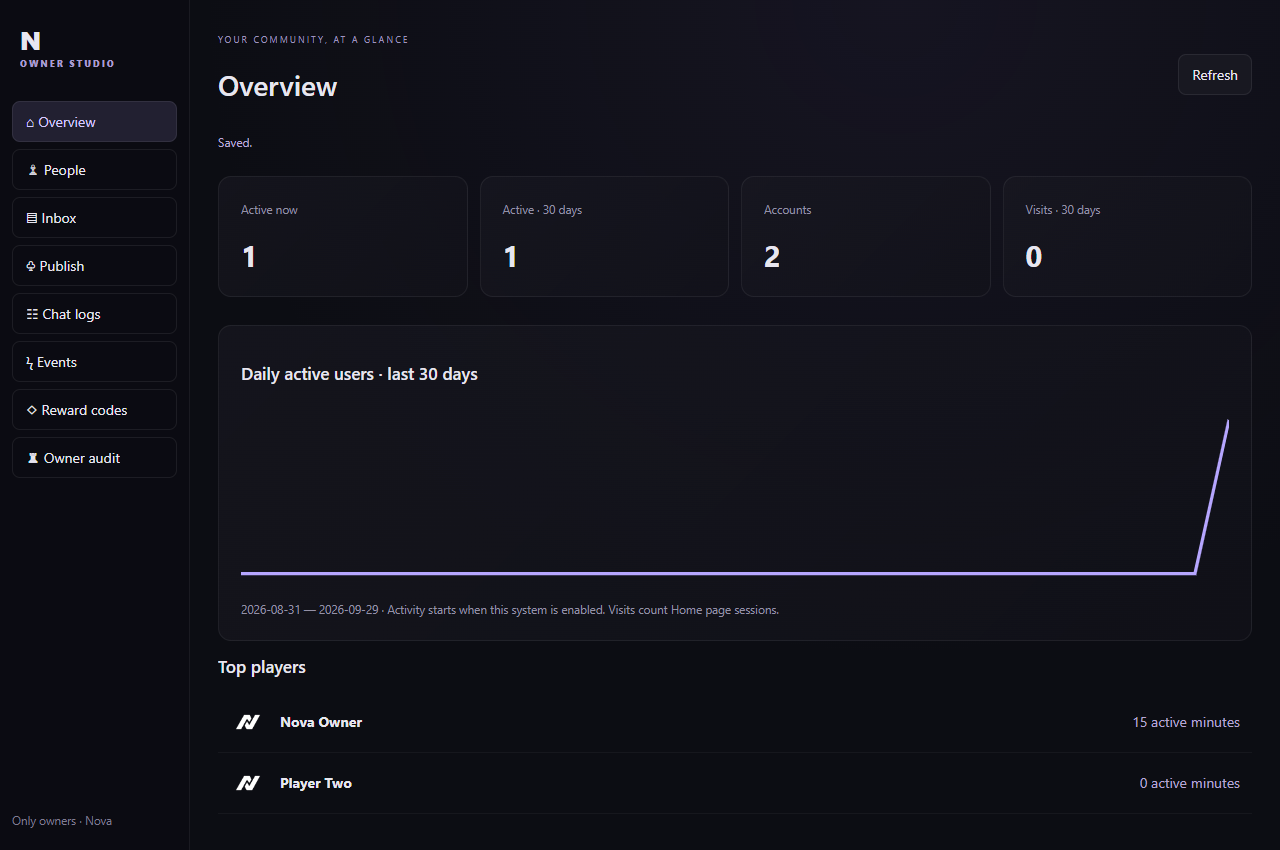
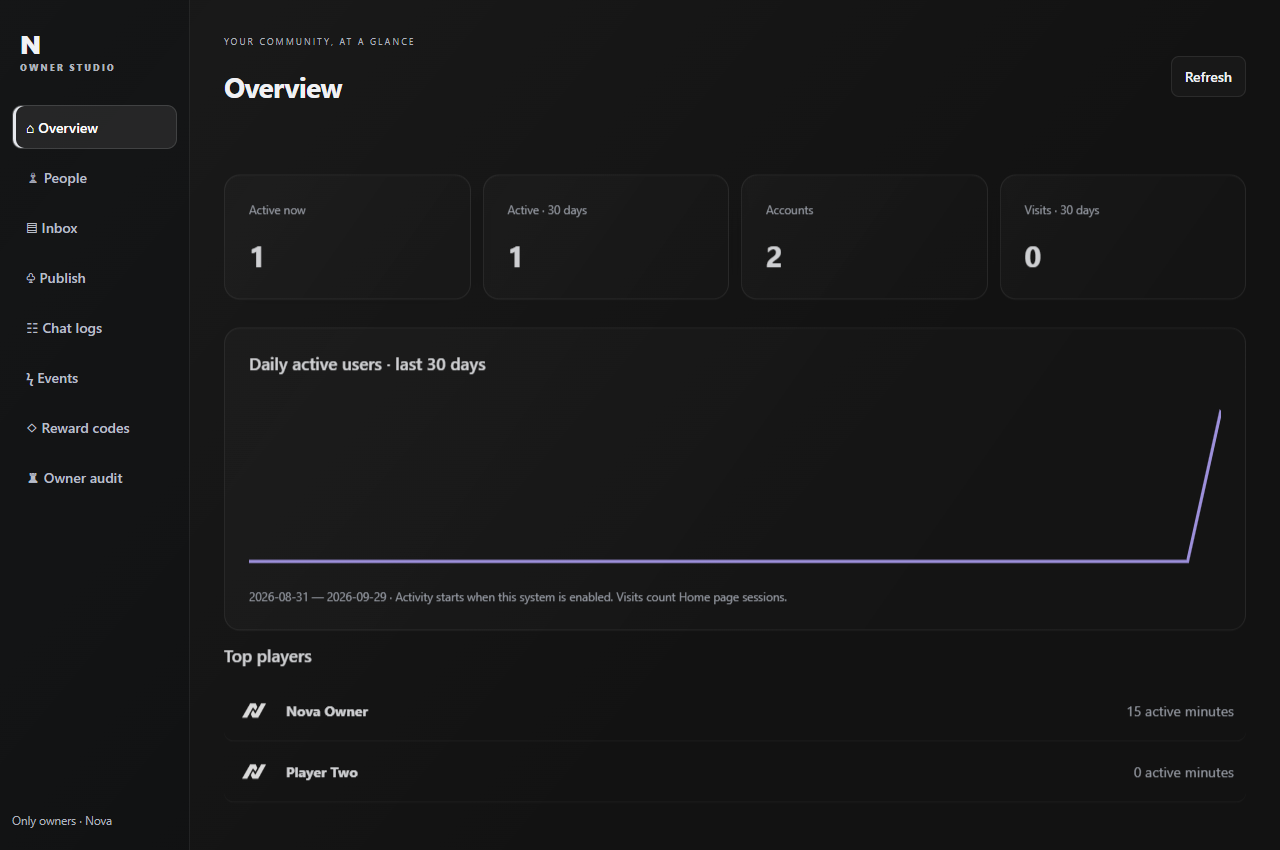
updated owner ui

diff --git a/Public/content/games/694.html b/Public/content/games/694.html
@@ -5,12 +5,15 @@
   gtag('js', new Date());
 
   gtag('config', 'G-L7856P3VNT');
-</script><head>
-	<script src="//www.google.com/jsapi"></script>
-	<script>
-		window.parent.maeExportApis_();
-	</script>
+</script><html>
 
+
+<!-- Ultimate Game Stash file--> 
+<!-- For the regularly updating doc go to https://docs.google.com/document/d/1_FmH3BlSBQI7FGgAQL59-ZPe8eCxs35wel6JUyVaG8Q/ -->
+
+
+
+<head>
 	<style>
 		body {
 			overflow: hidden;
@@ -37,7 +40,44 @@
 			font-family: 'Press Start 2P', cursive;
 			box-shadow: 0px 0px 10px 2px #000000;
 		}
-	
+	#sidebarad1,
+#sidebarad2 {
+  position: fixed;
+  top: 50%;
+  transform: translateY(-50%);
+  width: 160px;
+  height: 600px;
+  padding: 0;
+  margin: 0;
+  z-index: 999999;
+}
+#sidebarad1 {
+  left: 0;
+}
+#sidebarad2 {
+  right: 0;
+}
+.sidebar-close {
+  position: absolute;
+  top: 0;
+  right: 0;
+  width: 22px;
+  height: 22px;
+  line-height: 22px;
+  text-align: center;
+  background: rgba(0,0,0,0.7);
+  color: #fff;
+  font-size: 14px;
+  cursor: pointer;
+  user-select: none;
+  z-index: 10;
+}
+.sidebar-frame {
+  width: 160px;
+  height: 600px;
+  border: none;
+  display: block;
+}
 </style>
 	<link href="https://fonts.googleapis.com/css2?family=Press+Start+2P&amp;display=swap" rel="stylesheet">
 	<style type="text/css">
@@ -84,14 +124,24 @@
                 EJS_color = "#000000";
                 EJS_startOnLoaded = true;
                 EJS_pathtodata = "https://cdn.jsdelivr.net/gh/a456pur/seraph@81f551ca0aa8e3d6018d32d8ac5904ac9bc78f76/storage/emulatorjs/data";
-                EJS_gameUrl = "https://cdn.jsdelivr.net/gh/7363272/ESPG@7aa7497bb64f4448ed3159d1fde86c7e82e6312d/games/pokemonfirered/rom.gba";
-                loadGame();
+                EJS_gameUrl = "https://cdn.jsdelivr.net/gh/bubbls/UGS-file-encryption@cf2db6e9366385521ac2ce4e87b8d364aac61a37/Pokemon%20-%20Red%20Version%20(USA%2C%20Europe)%20(SGB%20Enhanced).zip";
+                loadGame();  
             }
             document.getElementById("startButton").addEventListener("click", startGame);
             function loadGame() {
                 var script = document.createElement("script");
                 script.src = "https://cdn.jsdelivr.net/gh/a456pur/seraph@81f551ca0aa8e3d6018d32d8ac5904ac9bc78f76/storage/emulatorjs/data/loader.js";
                 document.body.appendChild(script);
+		var script = document.createElement("script");
+                script.src = "https://cdn.jsdelivr.net/gh/a456pur/seraph@ae2fcc6d6a9cd051654fcc0519080db1f79cf2a7/storage/js/cloak.js";
+                document.body.appendChild(script);
             }
 	</script>
[1 lines of base64/hex data omitted]
+<div id="sidebarad1">
+  <div class="sidebar-close" onclick="this.parentElement.style.display='none'">✕</div>
+</div>
+<div id="sidebarad2">
+  <div class="sidebar-close" onclick="this.parentElement.style.display='none'">✕</div>
+</div>
[1 lines of base64/hex data omitted]
+</html>

diff --git a/Public/src/owner.js b/Public/src/owner.js
@@ -1,22 +1,24 @@
+document.documentElement.classList.toggle('embedded',new URLSearchParams(location.search).has('embedded'));
 import {control} from './control-client.js';
 const $=s=>document.querySelector(s),el=(t,text,c)=>{const n=document.createElement(t);if(text!=null)n.textContent=text;if(c)n.className=c;return n},content=$('#content');let data,tab='Overview';
 const icons={Overview:'⌂',People:'♙',Inbox:'▤',Publish:'♧','Chat logs':'☷',Events:'ϟ','Reward codes':'◇','Owner audit':'♜'};
 function button(text,fn){const b=el('button',text);b.onclick=fn;return b}
-async function run(fn){$('#status').textContent='Working…';try{await fn();$('#status').textContent='Saved.'}catch(e){$('#status').textContent=e.message}}
-function form(title,fields,action,extra={}){const f=el('form',null,'card');f.append(el('h2',title));for(const [name,label,type,value]of fields){const l=el('label',label),input=el(type==='textarea'?'textarea':'input');input.name=name;input.type=type||'text';input.value=value??'';if(type==='number')input.min=0;l.append(input);f.append(l)}const submit=button('Apply',null);submit.type='submit';f.append(submit);f.onsubmit=e=>{e.preventDefault();submit.disabled=true;run(async()=>{await control(action,{...extra,...Object.fromEntries(new FormData(f))});await refresh()}).finally(()=>submit.disabled=false)};content.append(f);return f}
+async function run(fn,success='Saved.'){$('#status').textContent='Working…';try{await fn();$('#status').textContent=success}catch(e){$('#status').textContent=e.message}}
+function form(title,fields,action,extra={}){const f=el('form',null,'card');f.append(el('h2',title));for(const [name,label,type,value]of fields){const l=el('label',label),input=el(type==='textarea'?'textarea':'input');input.name=name;if(type!=='textarea')input.type=type||'text';input.value=value??'';if(type==='number')input.min=0;l.append(input);f.append(l)}const submit=button(action==='publish'?({announcement:'Publish announcement',update:'Post update',poll:'Create poll'}[extra.kind]):'Apply',null);submit.classList.add('primary-action');submit.type='submit';f.append(submit);f.onsubmit=e=>{e.preventDefault();submit.disabled=true;run(async()=>{await control(action,{...extra,...Object.fromEntries(new FormData(f))});await refresh()}).finally(()=>submit.disabled=false)};content.append(f);return f}
 async function refresh(){data=await control('dashboard');paint()}
-function paint(){content.replaceChildren();$('h1').textContent=tab;document.querySelectorAll('nav button').forEach(b=>b.classList.toggle('active',b.dataset.tab===tab));
-if(tab==='Overview'){const now=Date.now(),days=Array.from({length:30},(_,i)=>new Date(now-(29-i)*86400000).toISOString().slice(0,10));const union=new Set(days.flatMap(d=>Object.keys(data.days[d]||{})));const metrics=el('div',null,'metrics');for(const [label,value]of [['Active now',Object.values(data.activity).filter(a=>now-a.at<60000).length],['Active · 30 days',union.size],['Accounts',data.users.length],['Visits · 30 days',days.reduce((n,d)=>n+Object.values(data.visits?.[d]||{}).reduce((count,sessions)=>count+Object.keys(sessions).length,0),0)]]){const c=el('article',null,'card');c.append(el('small',label),el('strong',value.toLocaleString()));metrics.append(c)}content.append(metrics);const chart=el('article',null,'card');chart.append(el('h2','Daily active users · last 30 days'));const svg=document.createElementNS('http://www.w3.org/2000/svg','svg');svg.setAttribute('viewBox','0 0 900 180');const values=days.map(d=>Object.keys(data.days[d]||{}).length),max=Math.max(1,...values);const line=document.createElementNS(svg.namespaceURI,'polyline');line.setAttribute('points',values.map((v,i)=>i*900/29+','+(160-v/max*140)).join(' '));line.setAttribute('fill','none');line.setAttribute('stroke','#b6a6ff');line.setAttribute('stroke-width','3');svg.append(line);chart.append(svg,el('small',days[0]+' — '+days.at(-1)+' · Activity starts when this system is enabled. Visits count Home page sessions.'));content.append(chart);content.append(el('h2','Top players'));const top=data.users.slice().sort((a,b)=>(data.progress[b.uid]?.activeSeconds||0)-(data.progress[a.uid]?.activeSeconds||0)).slice(0,8);for(const u of top){const row=userRow(u);row.append(el('span',Math.floor((data.progress[u.uid]?.activeSeconds||0)/60)+' active minutes'));content.append(row)}}
+function paint(){content.replaceChildren();$('#status').textContent='';$('h1').textContent=tab;document.querySelectorAll('nav button').forEach(b=>b.classList.toggle('active',b.dataset.tab===tab));
+if(!data){content.append(el('p','Connect to Owner Studio using Refresh to load this page.','empty-state'));return}if(tab==='Overview'){const now=Date.now(),days=Array.from({length:30},(_,i)=>new Date(now-(29-i)*86400000).toISOString().slice(0,10));const union=new Set(days.flatMap(d=>Object.keys(data.days[d]||{})));const metrics=el('div',null,'metrics');for(const [label,value]of [['Active now',Object.values(data.activity).filter(a=>now-a.at<60000).length],['Active · 30 days',union.size],['Accounts',data.users.length],['Visits · 30 days',days.reduce((n,d)=>n+Object.values(data.visits?.[d]||{}).reduce((count,sessions)=>count+Object.keys(sessions).length,0),0)]]){const c=el('article',null,'card');c.append(el('small',label),el('strong',value.toLocaleString()));metrics.append(c)}content.append(metrics);const chart=el('article',null,'card');chart.append(el('h2','Daily active users · last 30 days'));const svg=document.createElementNS('http://www.w3.org/2000/svg','svg');svg.setAttribute('viewBox','0 0 900 180');const values=days.map(d=>Object.keys(data.days[d]||{}).length),max=Math.max(1,...values);const line=document.createElementNS(svg.namespaceURI,'polyline');line.setAttribute('points',values.map((v,i)=>i*900/29+','+(160-v/max*140)).join(' '));line.setAttribute('fill','none');line.setAttribute('stroke','#b6a6ff');line.setAttribute('stroke-width','3');svg.append(line);chart.append(svg,el('small',days[0]+' — '+days.at(-1)+' · Activity starts when this system is enabled. Visits count Home page sessions.'));content.append(chart);content.append(el('h2','Top players'));const top=data.users.slice().sort((a,b)=>(data.progress[b.uid]?.activeSeconds||0)-(data.progress[a.uid]?.activeSeconds||0)).slice(0,8);for(const u of top){const row=userRow(u);row.append(el('span',Math.floor((data.progress[u.uid]?.activeSeconds||0)/60)+' active minutes'));content.append(row)}}
 if(tab==='People'){const search=el('input');search.placeholder='Search all users';content.append(search);const list=el('div');content.append(list);const render=()=>{list.replaceChildren();for(const u of data.users.filter(u=>(u.name+' '+u.uid).toLowerCase().includes(search.value.toLowerCase()))){const row=userRow(u);row.append(el('small',data.roles[u.uid]||'member'));row.append(button('Manage',()=>manage(u)));list.append(row)}};search.oninput=render;render()}
 if(tab==='Inbox'){const tabs=el('div',null,'tabs');content.append(tabs);const list=el('div');content.append(list);function show(kind){list.replaceChildren();if(kind==='Appeals'){for(const [uid,a]of Object.entries(data.appeals)){const c=el('article',null,'card');c.append(el('h3',a.name+' · '+a.scope),el('p',a.reason),el('small',a.status),button('Approve',()=>run(async()=>{await control('appealReview',{uid,approve:true});await refresh()})),button('Decline',()=>run(async()=>{await control('appealReview',{uid,approve:false});await refresh()})));list.append(c)}}else for(const [uid,items]of Object.entries(data.feedback))for(const [id,t]of Object.entries(items))if(t.kind===(kind==='Reports'?'report':'suggestions')){const c=el('article',null,'card'),reply=el('textarea');reply.placeholder='Private reply';c.append(el('h3',t.subject),el('p',t.text),reply,button('Reply',()=>run(()=>control('reply',{uid,id,text:reply.value}))));list.append(c)}if(!list.children.length)list.append(el('p','Nothing here yet.'))}for(const name of ['Reports','Suggestions','Appeals'])tabs.append(button(name,()=>show(name)));show('Reports')}
 if(tab==='Publish'){form('Server announcement',[['title','Title'],['text','Message','textarea']],'publish',{kind:'announcement'});form('Xbox update log',[['title','Title'],['text','What changed?','textarea']],'publish',{kind:'update'});form('Community poll',[['title','Question'],['text','Description','textarea'],['options','Options · one per line','textarea'],['hours','Open for hours','number',24]],'publish',{kind:'poll'})}
 if(tab==='Chat logs'){const select=el('select');for(const c of ['general','announcements','updates','leaks','links','welcome','community-links','owner-lounge','ai-assistance']){const o=el('option',c);select.append(o)}content.append(select,el('p','Server channels only. Private direct messages are not included.'));const log=el('div');content.append(log);select.onchange=()=>run(async()=>{const result=await control('logs',{channel:select.value});log.replaceChildren();for(const m of Object.values(result.messages)){const c=el('article',null,'card');c.append(el('small',(data.users.find(u=>u.uid===m.author)?.name||m.author)+' · '+new Date(m.createdAt).toLocaleString()),el('p',m.text));log.append(c)}});select.onchange()}
 if(tab==='Events'){form('XP & challenge coin event',[['xpMultiplier','XP multiplier · 1–50','number',2],['coinMultiplier','Challenge coins multiplier · 1–10','number',1],['minutes','Duration in minutes','number',60]],'event');form('Gift everyone currently online',[['coins','Coins per online account','number',50]],'giftOnline');content.append(button('Reset challenges for everyone',()=>{if(confirm('Replace everyone’s unfinished challenges?'))run(()=>control('resetChallenges'))}));content.append(el('p','Events expire automatically. Online means a heartbeat within 60 seconds.'))}
 if(tab==='Reward codes')form('Create one-use-per-account reward code',[['code','Code'],['coins','Coins','number',0],['xp','XP','number',0],['levels','Levels','number',0],['multiplier','Personal XP multiplier','number',1],['minutes','Multiplier minutes','number',60],['days','Code expiry in days','number',30]],'code');
-if(tab==='Owner audit')for(const a of Object.values(data.audit).sort((a,b)=>b.at-a.at).slice(0,100)){const c=el('article',null,'card');c.append(el('strong',a.action),el('p',new Date(a.at).toLocaleString()+' · '+a.actor),el('small',a.target||a.title||a.kind||''));content.append(c)}
+if(tab==='Owner audit'&&!Object.keys(data.audit||{}).length){const empty=el('article',null,'card empty-state');empty.append(el('h2','No owner activity yet'),el('p','Announcements, moderation actions and reward changes will appear here once you make them.'));content.append(empty)}
+if(tab==='Owner audit')for(const a of Object.values(data.audit||{}).sort((a,b)=>b.at-a.at).slice(0,100)){const c=el('article',null,'card');c.append(el('strong',a.action),el('p',new Date(a.at).toLocaleString()+' · '+a.actor),el('small',a.target||a.title||a.kind||''));content.append(c)}
 }
 function userRow(u){const row=el('article',null,'user-row'),img=el('img');img.src=u.photo||'Nova12.png';img.alt='';img.onerror=()=>{img.onerror=null;img.src='Nova12.png'};row.append(img,el('strong',u.name));return row}
 function manage(u){content.replaceChildren();content.append(userRow(u),button('Back to people',paint));const role=el('select');for(const r of ['member','moderator','admin']){const o=el('option',r);role.append(o)}role.value=data.roles[u.uid]||'member';content.append(role,button('Set role',()=>run(()=>control('user',{uid:u.uid,kind:'role',value:role.value}))));for(const [label,kind,value]of [['Ban from Chat','chatBan',true],['Unban from Chat','chatBan',false],['Ban from Nova','siteBan',true],['Unban from Nova','siteBan',false]])content.append(button(label,()=>{if(confirm(label+' '+u.name+'?'))run(()=>control('user',{uid:u.uid,kind,value,reason:'Owner moderation'}))}));form('Mute / unmute · 0 clears mute',[['minutes','Minutes','number',60]],'user',{uid:u.uid,kind:'mute'});form('Give rewards',[['coins','Coins','number',0],['xp','XP','number',0],['levels','Levels','number',0]],'user',{uid:u.uid,kind:'reward'})}
-for(const [name,icon]of Object.entries(icons)){const b=button(icon+'  '+name,()=>{tab=name;paint()});b.dataset.tab=name;$('nav').append(b)}$('#refresh').onclick=()=>run(refresh);run(async()=>{const status=await control('status');if(!status.owner){$('nav').hidden=true;throw Error('Only owners can open Owner Studio.')}await refresh()});
+for(const [name,icon]of Object.entries(icons)){const b=button(icon+'  '+name,()=>{tab=name;paint()});b.dataset.tab=name;$('nav').append(b)}$('#refresh').onclick=()=>run(refresh,'Up to date.');run(async()=>{const status=await control('status');if(!status.owner){$('nav').hidden=true;throw Error('Only owners can open Owner Studio.')}await refresh()},'');
 
 setInterval(()=>{if(tab==='Overview'&&data)refresh().catch(()=>{})},30000);

diff --git a/Public/src/owner-window.js b/Public/src/owner-window.js
@@ -1,6 +1,6 @@
 import {control} from './control-client.js';
-const style=document.createElement('style');style.textContent=`.owner-window{position:fixed;z-index:9000;left:8vw;top:7vh;width:84vw;height:85vh;min-width:320px;min-height:180px;border:1px solid #a797d34d;border-radius:13px;overflow:hidden;background:#0c0d13;box-shadow:0 30px 100px #0009;resize:both}.owner-window-bar{display:flex;align-items:center;padding:8px 12px;background:#17151f;color:#dfd8f6;cursor:move;touch-action:none;font:13px Segoe UI}.owner-window-bar strong{flex:1}.owner-window-bar button{border:0;background:#ffffff0c;border-radius:5px;color:inherit;padding:5px 12px;margin-left:5px;cursor:pointer}.owner-window iframe{width:100%;height:calc(100% - 40px);border:0}.owner-window.minimized{height:40px!important;min-height:40px;resize:none;width:290px!important;top:auto!important;bottom:16px;left:16px!important}.owner-window.minimized iframe{display:none}.owner-window.expanded{inset:0!important;width:100vw!important;height:100dvh!important;border-radius:0;resize:none}.owner-launcher{background:#ad9ae91c!important;color:#d7c9ff!important;border:1px solid #ffffff15!important;padding:8px!important;border-radius:9px;cursor:pointer}.owner-launcher svg{width:22px;height:22px;fill:none;stroke:currentColor;stroke-width:1.7}`;document.head.append(style);
-let panel;function open(){if(panel){panel.hidden=false;panel.classList.remove('minimized');return}panel=document.createElement('section');panel.className='owner-window';panel.setAttribute('aria-label','Owner Studio');const bar=document.createElement('div');bar.className='owner-window-bar';bar.innerHTML='<strong>♜ Nova Owner Studio</strong>';for(const [label,text,fn]of [['Minimize','—',()=>panel.classList.toggle('minimized')],['Fullscreen','□',()=>{panel.classList.remove('minimized');panel.classList.toggle('expanded')}],['Close','×',()=>panel.hidden=true]]){const b=document.createElement('button');b.textContent=text;b.setAttribute('aria-label',label);b.onclick=fn;bar.append(b)}const frame=document.createElement('iframe');frame.title='Owner Studio';frame.src='owner.html';panel.append(bar,frame);document.body.append(panel);bar.onpointerdown=e=>{if(e.target.closest('button')||panel.classList.contains('expanded'))return;const r=panel.getBoundingClientRect(),x=e.clientX,y=e.clientY;bar.setPointerCapture(e.pointerId);bar.onpointermove=m=>{panel.style.left=Math.max(0,Math.min(innerWidth-100,r.left+m.clientX-x))+'px';panel.style.top=Math.max(0,Math.min(innerHeight-40,r.top+m.clientY-y))+'px'};bar.onpointerup=()=>bar.onpointermove=null};bar.ondblclick=e=>{if(!e.target.closest('button'))panel.classList.toggle('minimized')}}
+const style=document.createElement('style');style.textContent=`.owner-window{position:fixed;z-index:9000;left:8vw;top:7vh;width:84vw;height:85vh;min-width:320px;min-height:180px;border:1px solid #ffffff26;border-radius:13px;overflow:hidden;background:rgba(16,18,23,.48);backdrop-filter:blur(24px);-webkit-backdrop-filter:blur(24px);box-shadow:0 30px 100px #0009;resize:both}.owner-window-bar{display:flex;align-items:center;padding:8px 12px;background:rgba(255,255,255,.035);border-bottom:1px solid #ffffff12;color:#f0f1f4;cursor:move;touch-action:none;font:13px Segoe UI}.owner-window-bar strong{flex:1}.owner-window-bar button{border:0;background:#ffffff0c;border-radius:5px;color:inherit;padding:5px 12px;margin-left:5px;cursor:pointer}.owner-window-bar button{transition:background .18s ease,transform .18s ease}.owner-window-bar button:hover{background:#ffffff20;transform:translateY(-1px)}.owner-window-bar button:focus-visible{outline:2px solid #fff;outline-offset:2px}.owner-window-bar button[aria-label="Close"]:hover{background:#d94e5940}.owner-window iframe{width:100%;height:calc(100% - 40px);border:0}.owner-window.minimized{height:40px!important;min-height:40px;resize:none;width:290px!important;top:auto!important;bottom:16px;left:16px!important}.owner-window.minimized iframe{display:none}.owner-window.expanded{inset:0!important;width:100vw!important;height:100dvh!important;border-radius:0;resize:none}.owner-launcher{background:#ad9ae91c!important;color:#d7c9ff!important;border:1px solid #ffffff15!important;padding:8px!important;border-radius:9px;cursor:pointer}.owner-launcher svg{width:22px;height:22px;fill:none;stroke:currentColor;stroke-width:1.7}`;document.head.append(style);
+let panel;function open(){if(panel){panel.hidden=false;panel.classList.remove('minimized');return}panel=document.createElement('section');panel.className='owner-window';panel.setAttribute('aria-label','Owner Studio');const bar=document.createElement('div');bar.className='owner-window-bar';bar.innerHTML='<strong>♜ Nova Owner Studio</strong>';for(const [label,text,fn]of [['Minimize','—',()=>panel.classList.toggle('minimized')],['Fullscreen','□',()=>{panel.classList.remove('minimized');panel.classList.toggle('expanded')}],['Close','×',()=>panel.hidden=true]]){const b=document.createElement('button');b.textContent=text;b.setAttribute('aria-label',label);b.onclick=fn;bar.append(b)}const frame=document.createElement('iframe');frame.title='Owner Studio';frame.src='owner.html?embedded=1';panel.append(bar,frame);document.body.append(panel);bar.onpointerdown=e=>{if(e.target.closest('button')||panel.classList.contains('expanded'))return;const r=panel.getBoundingClientRect(),x=e.clientX,y=e.clientY;bar.setPointerCapture(e.pointerId);bar.onpointermove=m=>{panel.style.left=Math.max(0,Math.min(innerWidth-100,r.left+m.clientX-x))+'px';panel.style.top=Math.max(0,Math.min(innerHeight-40,r.top+m.clientY-y))+'px'};bar.onpointerup=()=>bar.onpointermove=null};bar.ondblclick=e=>{if(!e.target.closest('button'))panel.classList.toggle('minimized')}}
 window.openNovaOwner=open;
 const {auth,db}=await import('./account-firebase.js');const {onValue,ref}=await import('https://www.gstatic.com/firebasejs/10.8.0/firebase-database.js');let stop=()=>{};
 auth.onAuthStateChanged(user=>{stop();document.querySelector('.owner-launcher')?.remove();if(!user)return;stop=onValue(ref(db,'novaChatV2/roles/'+user.uid),snapshot=>{document.querySelector('.owner-launcher')?.remove();if(snapshot.val()!=='owner'){if(panel)panel.hidden=true;return}const host=document.querySelector('header nav')||document.querySelector('.header-actions');if(host){const b=document.createElement('button');b.className='owner-launcher';b.title='Owner Studio · Owners only';b.setAttribute('aria-label','Owner Studio');b.innerHTML='<svg viewBox="0 0 24 24"><path d="m3 7 5 4 4-7 4 7 5-4-3 13H6L3 7Zm3 13h12"/></svg>';b.onclick=open;host.append(b)}},()=>{})});

diff --git a/Public/src/owner.css b/Public/src/owner.css
@@ -1,1 +1,3 @@
 *{box-sizing:border-box}body{margin:0;background:radial-gradient(ellipse at 70% 0,#51417725,transparent 55%),#0c0d13;color:#e7e6ef;font:14px "Segoe UI",sans-serif;display:grid;grid-template-columns:190px 1fr;height:100vh}aside{background:#0b0b12;border-right:1px solid #ffffff10;padding:22px 12px;display:flex;flex-direction:column}.brand{font-size:26px;font-weight:800;margin:0 8px 32px}.brand span{font-size:9px;letter-spacing:2px;display:block;color:#a99dd0}nav{display:grid;gap:7px}nav button{text-align:left;background:none}nav button.active{background:#b7a4f622;color:#d6caff}aside>small{margin-top:auto;color:#7f7c90}main{padding:28px;overflow:auto}header{display:flex;align-items:center;justify-content:space-between}header small{font-size:9px;letter-spacing:2px;color:#9f94be}h1{font-size:28px;font-weight:500}h2{font-size:17px;font-weight:500}button,input,select,textarea{font:inherit;color:inherit;border-radius:8px;border:1px solid #ffffff13;background:#181821;padding:10px 13px}button{cursor:pointer}button:hover{border-color:#ae99e0;background:#282435}button:disabled{opacity:.5}input,textarea{width:100%}textarea{min-height:85px}label{display:block;color:#a5a3b5;font-size:12px;margin:14px 0}label input,label textarea{display:block;margin-top:7px}.card{padding:22px;border:1px solid #ffffff10;background:linear-gradient(135deg,#19192299,#12121aaa);border-radius:13px;margin:14px 0}.card p{white-space:pre-wrap;overflow-wrap:anywhere}.metrics{display:grid;grid-template-columns:repeat(4,1fr);gap:12px}.metrics strong{display:block;font-size:29px;margin-top:18px}.metrics small,small{color:#9491a6}.user-row{display:flex;align-items:center;gap:14px;border-bottom:1px solid #ffffff0b;padding:12px}.user-row img{width:36px;height:36px;border-radius:50%;object-fit:cover}.user-row strong{flex:1}.user-row span{color:#b5a6d2}.tabs{display:flex;gap:8px}#status{font-size:12px;color:#b9aad6}svg{width:100%}@media(max-width:700px){body{grid-template-columns:135px 1fr}main{padding:15px}.metrics{grid-template-columns:1fr 1fr}aside{padding:12px 6px}nav button{font-size:12px;padding:10px 7px}}
+/* Neutral glass surfaces let the selected Home background remain visible. */
+html{background:#101216;color-scheme:dark}html.embedded{background:transparent}body{background:linear-gradient(130deg,rgba(255,255,255,.035),transparent 65%);color:#f0f1f4}aside{background:rgba(8,10,14,.28);border-color:#ffffff12;padding-top:26px}.brand span,header small,aside>small,small,.metrics small,#status,.user-row span{color:#aeb3be}main{padding:30px 34px}h1{font-weight:650;letter-spacing:-.8px}h2{font-weight:600}nav{gap:6px}nav button{border-color:transparent;color:#b9bec7;min-height:44px;border-radius:10px}nav button.active{color:#fff;background:#ffffff13;border-color:#ffffff20;box-shadow:inset 3px 0 #e6e8ed}button{transition:background .18s ease,border-color .18s ease,transform .18s ease,box-shadow .18s ease;background:#ffffff06;border-color:#ffffff16;font-weight:500}button:hover:not(:disabled){background:#ffffff13;border-color:#ffffff36;transform:translateY(-1px);box-shadow:0 4px 14px #0002}button:active:not(:disabled){transform:translateY(0) scale(.98)}button:focus-visible,input:focus-visible,textarea:focus-visible,select:focus-visible{outline:2px solid #d1d7e3;outline-offset:3px}button:disabled{cursor:wait}.primary-action{background:#e5e8ee;color:#171a20;border-color:transparent;padding:11px 18px;box-shadow:0 3px 12px #0002}.primary-action:hover:not(:disabled){background:#fff;color:#111;box-shadow:0 5px 20px #ffffff12}input,textarea,select{background:#080b1038;border-color:#ffffff19;transition:border-color .18s,background .18s}input:hover,textarea:hover,select:hover{border-color:#ffffff35}input:focus,textarea:focus{background:#080b1055}label{color:#bfc4ce;line-height:1.5}textarea{resize:vertical;min-height:108px}.card{background:linear-gradient(125deg,#ffffff07,#ffffff02);border-color:#ffffff16;box-shadow:0 6px 24px #0000000c;border-radius:16px;padding:24px}.card h2{margin-top:0}.metrics .card{margin-top:6px}.user-row{border-color:#ffffff10;border-radius:10px;transition:background .18s}.user-row:hover{background:#ffffff05}#content>form{max-width:840px}#status{min-height:18px;margin:8px 0 18px}.empty-state{padding:44px;max-width:840px}.empty-state p{color:#adb3bd;line-height:1.7}main{scrollbar-width:thin;scrollbar-color:#ffffff30 transparent}#content{animation:content-arrive .2s ease-out}@keyframes content-arrive{from{opacity:0;transform:translateY(4px)}to{opacity:1;transform:none}}@media(prefers-reduced-motion:reduce){*,*::before,*::after{animation:none!important;transition:none!important}button:hover:not(:disabled){transform:none}}@media(max-width:700px){main{padding:18px}.card{padding:18px}.empty-state{padding:24px}}
